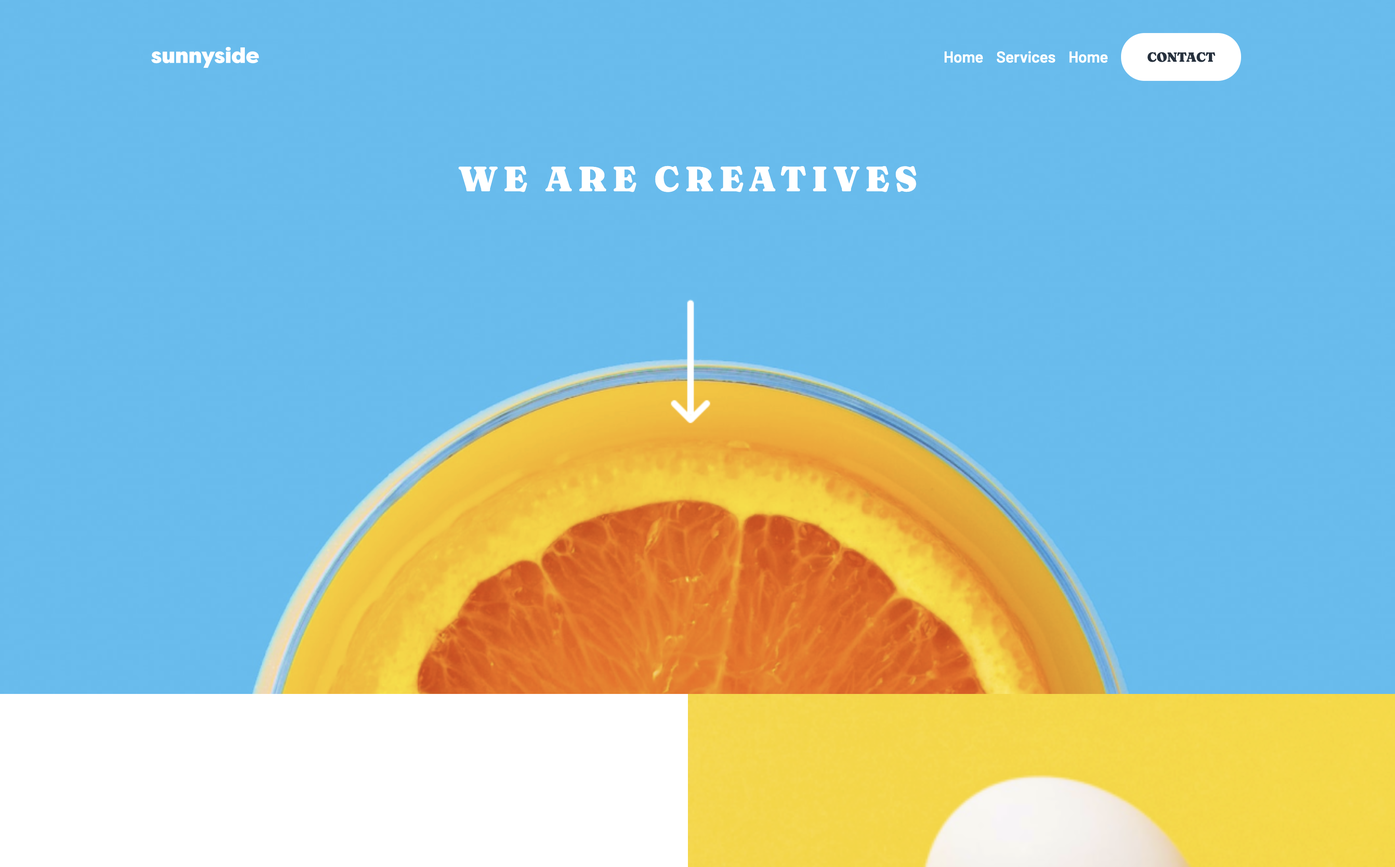
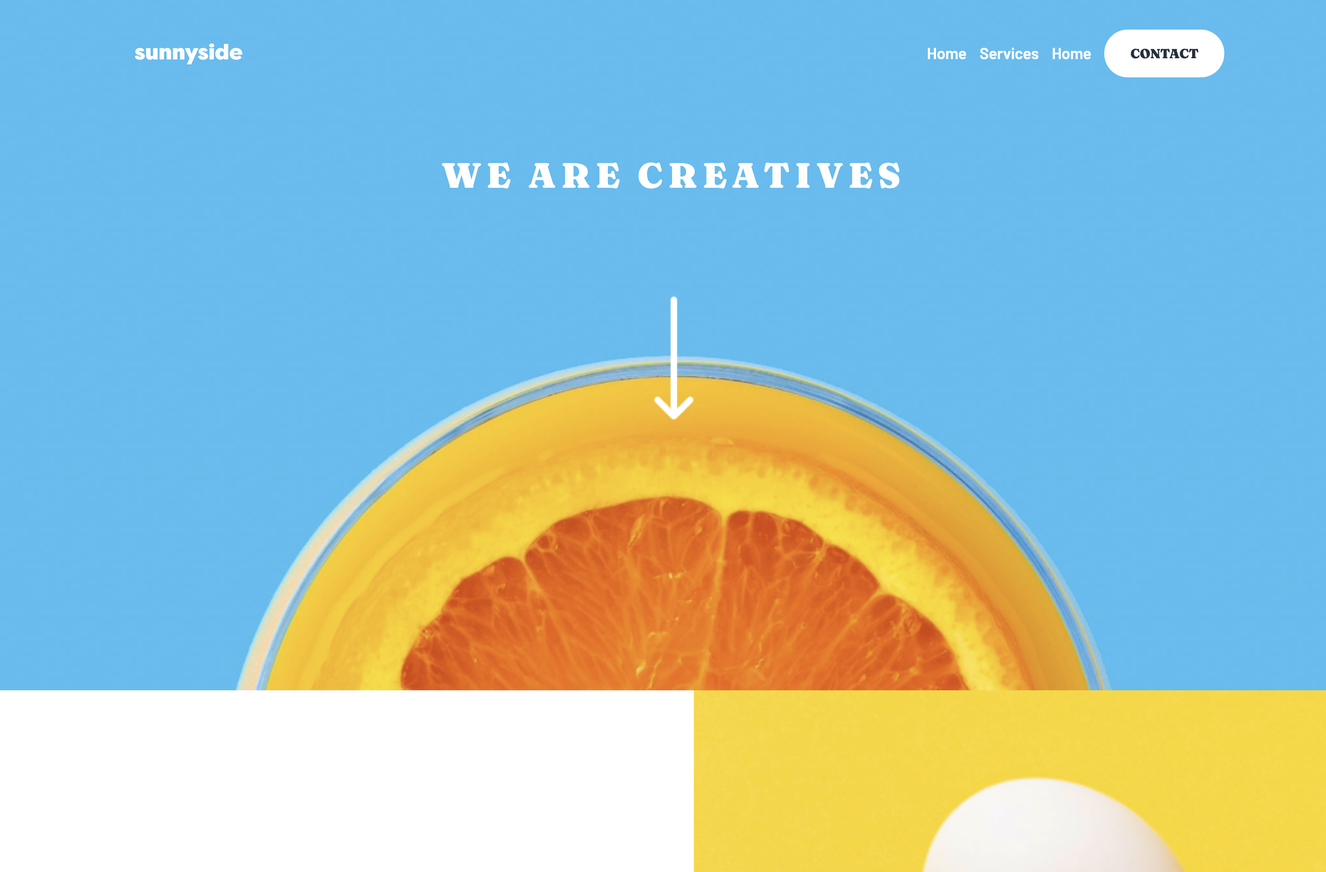
new commit

diff --git a/css/main.min.css b/css/main.min.css
@@ -1,2 +1,2 @@
-html{-webkit-box-sizing:border-box;box-sizing:border-box;height:100%;scroll-behavior:smooth}*,*::before,*::after{-webkit-box-sizing:inherit;box-sizing:inherit}h1,h2,h3,h4,h5,h6,p{margin:0;padding:0}ul{padding:0}body{width:100%;display:-webkit-box;display:-ms-flexbox;display:flex;-webkit-box-orient:vertical;-webkit-box-direction:normal;-ms-flex-direction:column;flex-direction:column;height:100%;padding:0;margin:0;overflow-x:hidden;font-family:'Poppins', Arial, sans-serif}img{max-width:100%;height:auto}main{-webkit-box-flex:1;-ms-flex-positive:1;flex-grow:1}::-webkit-scrollbar{width:6px}::-webkit-scrollbar-track{background:#000}::-webkit-scrollbar-thumb{background:#19647E}::-webkit-scrollbar-thumb:hover{background:#555}.visually-hidden{position:absolute;width:1px;height:1px;margin:-1px;border:0;padding:0;clip:rect(0 0 0 0);overflow:hidden}.container{width:100%;max-width:1200px;padding:0 40px;margin:0 auto}.scroll-up-btn{position:fixed;height:45px;width:42px;background-color:#05B2DC;right:30px;bottom:10px;text-align:center;line-height:45px;color:#13293D;z-index:9999;font-size:30px;border-radius:6px;border-bottom-width:2px;cursor:pointer;opacity:0;pointer-events:none;-webkit-transition:all 0.3s ease;transition:all 0.3s ease}.scroll-up-btn.show{bottom:30px;opacity:1;pointer-events:auto}.scroll-up-btn:hover{-webkit-filter:brightness(90%);filter:brightness(90%)}.navbar{position:fixed;width:100%;z-index:999;padding:30px 0;-webkit-transition:all 0.3s ease;transition:all 0.3s ease}.navbar-inner{display:-webkit-box;display:-ms-flexbox;display:flex;-webkit-box-align:center;-ms-flex-align:center;align-items:center;-webkit-box-pack:justify;-ms-flex-pack:justify;justify-content:space-between}.navbar.sticky{padding:15px 0;background-color:#19647E;-webkit-box-shadow:rgba(0,0,0,0.1) 0px 10px 15px -3px,rgba(0,0,0,0.05) 0px 4px 6px -2px;box-shadow:rgba(0,0,0,0.1) 0px 10px 15px -3px,rgba(0,0,0,0.05) 0px 4px 6px -2px}.navbar-menu{display:-webkit-box;display:-ms-flexbox;display:flex;list-style-type:none}.navbar-menu__item{margin-right:25px}.navbar-menu__item:last-child{margin-right:0}.navbar-menu__link{text-decoration:none;color:#fff;font-weight:600;-webkit-transition:color 0.4s ease;transition:color 0.4s ease}.navbar-menu__link:hover{color:#3282B8}.hero{display:-webkit-box;display:-ms-flexbox;display:flex;height:100vh;width:100%;min-height:100vh;color:#fff;background-image:url(/img/background-img-2.svg);background-repeat:no-repeat;background-size:cover;background-attachment:fixed}.hero-inner{margin:auto;display:-webkit-box;display:-ms-flexbox;display:flex;-webkit-box-align:center;-ms-flex-align:center;align-items:center}.hero-inner__desc{font-family:'ubuntu', sans-serif;margin-bottom:10px;font-weight:600;font-size:25px}.hero-inner__name{font-family:'ubuntu', sans-serif;font-size:65px;font-weight:800;margin-bottom:10px}.type{font-family:'ubuntu', sans-serif;margin:0 auto;width:200px;color:#05B2DC}.type::after{content:'|';display:inline;-webkit-animation:blink 0.7s infinite;animation:blink 0.7s infinite}.hero-inner__text{font-family:'ubuntu', Arial;color:#fff;font-size:40px;margin-bottom:25px}.hero-right__list{list-style-type:none;padding:0;margin:0}.hero-right__btns{display:-webkit-box;display:-ms-flexbox;display:flex;-webkit-box-align:center;-ms-flex-align:center;align-items:center;margin-bottom:30px}.hero-right__button{border:none;margin-right:8px;border-radius:50%;cursor:pointer;height:12px;width:12px}.hero-right__button:first-child{background-color:#F05365}.hero-right__button:nth-child(2){background-color:#FCBC2E}.hero-right__button:last-child{background-color:#22C940}.hero-right__button.btn__close:hover{background-image:url(/icon/close-btn.svg);background-size:6px;background-repeat:no-repeat;background-position:center}.hero-right__button.btn__minus:hover{background-image:url(/icon/minus-icon.svg);background-size:6px;background-repeat:no-repeat;background-position:center}.hero-right__button.btn__resize:hover{background-image:url(/icon/full-screeen-icon.svg);background-size:6px;background-repeat:no-repeat;background-position:center}.hero-right__code{padding:15px 25px 25px 15px;border-radius:10px;width:440px;margin-left:auto;background-color:#13293D;-webkit-box-shadow:rgba(0,0,0,0.05) 0px 5px 10px;box-shadow:rgba(0,0,0,0.05) 0px 5px 10px}.hero-right__item pre{overflow-x:hidden;font-size:13px;font-weight:300;color:#fff;letter-spacing:0.04px}.hero-right__item b{font-size:14px;font-weight:900}.typed-cursor{opacity:0;display:none}@keyframes blink{0%{opacity:1}50%{opacity:0}100%{opacity:1}}@-webkit-keyframes blink{0%{opacity:1}50%{opacity:0}100%{opacity:1}}.about{background-color:#13293D;color:#fff;width:100%;padding:80px 0 150px 0;display:block}.about__wrapper{display:-webkit-box;display:-ms-flexbox;display:flex;-webkit-box-align:center;-ms-flex-align:center;align-items:center;-webkit-box-pack:justify;-ms-flex-pack:justify;justify-content:space-between}.about__title{text-align:center;margin-bottom:50px;color:#fff;letter-spacing:2px;font-size:50px;font-weight:800;display:-webkit-box;display:-ms-flexbox;display:flex;-webkit-box-align:center;-ms-flex-align:center;align-items:center;-webkit-box-pack:center;-ms-flex-pack:center;justify-content:center}.about__title::before{content:'';width:50px;height:3px;background-color:#fff;margin-right:15px}.about__title::after{content:'';width:50px;height:3px;background-color:#fff;margin-left:15px}.about-details__heading{font-size:30px;font-weight:600}.type__second{color:#05B2DC}.about__link{text-decoration:none;color:#fff;background-color:#05B2DC;padding:10px;border-radius:10px;display:inline-block}.about__wrapper-text{width:700px;margin-bottom:25px}.service{padding:140px 0 100px;background-image:url(/img/background-img-1.svg);background-repeat:no-repeat;background-size:cover;background-attachment:fixed;color:#fff;width:100%}.service__title{font-size:35px;font-weight:600;margin-bottom:50px;color:#fff;letter-spacing:2px;font-size:50px;font-weight:800;display:-webkit-box;display:-ms-flexbox;display:flex;-webkit-box-align:center;-ms-flex-align:center;align-items:center;-webkit-box-pack:center;-ms-flex-pack:center;justify-content:center}.service__title::before{content:'';width:50px;height:3px;background-color:#fff;margin-right:15px}.service__title::after{content:'';width:50px;height:3px;background-color:#fff;margin-left:15px}.service__list{list-style-type:none;display:-webkit-box;display:-ms-flexbox;display:flex;-webkit-box-align:center;-ms-flex-align:center;align-items:center;-webkit-box-pack:justify;-ms-flex-pack:justify;justify-content:space-between}.service-list__item{cursor:pointer;padding:50px 35px;text-align:center;border-radius:10px;width:calc(33% - 10px);background-color:#13293D;-webkit-transition:background-color 0.3s ease;transition:background-color 0.3s ease;-webkit-box-shadow:rgba(0,0,0,0.1) 0px 20px 25px -5px,rgba(0,0,0,0.04) 0px 10px 10px -5px;box-shadow:rgba(0,0,0,0.1) 0px 20px 25px -5px,rgba(0,0,0,0.04) 0px 10px 10px -5px}.service-list__item:hover{background-color:#19647E}.service-list__item:hover .service-list__item-inner{-webkit-transform:scale(1.05);transform:scale(1.05)}.service-list__item:hover .icon{color:#fff}.service-list__item-inner{-webkit-transition:all 0.3s ease;transition:all 0.3s ease}.service-list__title{font-weight:600;font-size:25px;margin-bottom:15px}.icon{font-size:50px;color:#05B2DC;margin-bottom:20px;-webkit-transition:color 0.3s ease;transition:color 0.3s ease}.skills{background-color:#13293D;padding:80px 0 150px 0;position:relative}.skills__list{list-style-type:none;display:-webkit-box;display:-ms-flexbox;display:flex;-webkit-box-align:center;-ms-flex-align:center;align-items:center;-webkit-box-pack:justify;-ms-flex-pack:justify;justify-content:space-between}.skills__title{color:#fff;font-weight:800;font-size:50px;margin-bottom:100px;display:-webkit-box;display:-ms-flexbox;display:flex;-webkit-box-align:center;-ms-flex-align:center;align-items:center;-webkit-box-pack:center;-ms-flex-pack:center;justify-content:center;letter-spacing:2px}.skills__title::before{content:'';width:50px;height:3px;background-color:#fff;margin-right:15px}.skills__title::after{content:'';width:50px;height:3px;background-color:#fff;margin-left:15px}.contact{padding:80px 0 150px 0;background-color:#13293D;width:100%;color:#fff}.contact__title{margin-bottom:80px;letter-spacing:2px;font-size:50px;font-weight:800;display:-webkit-box;display:-ms-flexbox;display:flex;-webkit-box-align:center;-ms-flex-align:center;align-items:center;-webkit-box-pack:center;-ms-flex-pack:center;justify-content:center}.contact__title::before{content:'';width:50px;height:3px;background-color:#fff;margin-right:15px}.contact__title::after{content:'';width:50px;height:3px;background-color:#fff;margin-left:15px}.languages__list{position:absolute;top:0;width:100%;list-style:none;width:100%}.language__text{color:#05B2DC;position:absolute;opacity:0.2}.language__text--sass{font-size:28px;top:0;left:40px}.language__text--figma{top:30%;left:35%;font-size:18px}.language__text--bem{top:110px;left:20%;font-size:12px}.language__text--html{top:30px;left:auto;right:30px;font-size:23px}.language__text--python{top:370px;left:auto;right:90px;font-size:18px}.language__text--css{top:250px;left:40px;font-size:14px}.language__text--cplus{top:400px;left:70%;font-size:21px}.language__text--es{top:400px;left:160px;font-size:20px}.language__text--sqlite{bottom:-500px;left:400px;font-size:15px}.language__text--jquery{top:80px;left:75%;font-size:18px}.language__text--res{top:470px;left:880px;font-size:13px}.projects{background-image:url(/img/bgi-light.svg);background-repeat:no-repeat;background-attachment:fixed;background-size:cover;padding:100px 30px 120px 30px}.projects__title{font-size:35px;font-weight:600;margin-bottom:80px;color:#fff;letter-spacing:2px;font-size:50px;font-weight:800;display:-webkit-box;display:-ms-flexbox;display:flex;-webkit-box-align:center;-ms-flex-align:center;align-items:center;-webkit-box-pack:center;-ms-flex-pack:center;justify-content:center}.projects__title::before{content:'';width:50px;height:3px;background-color:#fff;margin-right:15px}.projects__title::after{content:'';width:50px;height:3px;background-color:#fff;margin-left:15px}.projects__list{list-style-type:none;display:-webkit-box;display:-ms-flexbox;display:flex;-ms-flex-wrap:wrap;flex-wrap:wrap;-webkit-box-align:center;-ms-flex-align:center;align-items:center;-webkit-box-pack:justify;-ms-flex-pack:justify;justify-content:space-between;margin-top:-18px;margin-bottom:-18px}.projects__name{color:#05B2DC;text-decoration:underline}.projects__img{margin-bottom:10px;width:100%;min-height:380px;-o-object-fit:cover;object-fit:cover;border-radius:10px;opacity:0.6}.projects-list__item{text-decoration:none;margin-top:18px;margin-bottom:18px;width:calc(33% - 15px);padding:10px 8px;border-radius:10px;background-color:#19647E;text-align:center}.hero-socials__list{list-style-type:none;display:-webkit-box;display:-ms-flexbox;display:flex;-webkit-box-align:center;-ms-flex-align:center;align-items:center}.hero-socials__item{margin-right:15px}.footer{background-color:#111;padding:10px 0}.footer__text{color:#fff;text-align:center;display:block;font-size:12px;font-weight:100}
+html{-webkit-box-sizing:border-box;box-sizing:border-box;height:100%;scroll-behavior:smooth}*,*::before,*::after{-webkit-box-sizing:inherit;box-sizing:inherit}h1,h2,h3,h4,h5,h6,p{margin:0;padding:0}ul{padding:0}body{width:100%;display:-webkit-box;display:-ms-flexbox;display:flex;-webkit-box-orient:vertical;-webkit-box-direction:normal;-ms-flex-direction:column;flex-direction:column;height:100%;padding:0;margin:0;overflow-x:hidden;font-family:'Poppins', Arial, sans-serif}img{max-width:100%;height:auto}main{-webkit-box-flex:1;-ms-flex-positive:1;flex-grow:1}::-webkit-scrollbar{width:6px}::-webkit-scrollbar-track{background:#000}::-webkit-scrollbar-thumb{background:#19647E}::-webkit-scrollbar-thumb:hover{background:#555}.visually-hidden{position:absolute;width:1px;height:1px;margin:-1px;border:0;padding:0;clip:rect(0 0 0 0);overflow:hidden}.container{width:100%;max-width:1200px;padding:0 40px;margin:0 auto}.scroll-up-btn{position:fixed;height:45px;width:42px;background-color:#05B2DC;right:30px;bottom:10px;text-align:center;line-height:45px;color:#13293D;z-index:9999;font-size:30px;border-radius:6px;border-bottom-width:2px;cursor:pointer;opacity:0;pointer-events:none;-webkit-transition:all 0.3s ease;transition:all 0.3s ease}.scroll-up-btn.show{bottom:30px;opacity:1;pointer-events:auto}.scroll-up-btn:hover{-webkit-filter:brightness(90%);filter:brightness(90%)}.navbar{position:fixed;width:100%;z-index:999;padding:15px 0;-webkit-transition:all 0.3s ease;transition:all 0.3s ease}.navbar-inner{display:-webkit-box;display:-ms-flexbox;display:flex;-webkit-box-align:center;-ms-flex-align:center;align-items:center;-webkit-box-pack:justify;-ms-flex-pack:justify;justify-content:space-between}.nav-inner{display:-webkit-box;display:-ms-flexbox;display:flex;-webkit-box-align:center;-ms-flex-align:center;align-items:center}.user-name{color:#fff}.navbar.sticky{padding:0;background-color:#19647E;-webkit-box-shadow:rgba(0,0,0,0.1) 0px 10px 15px -3px,rgba(0,0,0,0.05) 0px 4px 6px -2px;box-shadow:rgba(0,0,0,0.1) 0px 10px 15px -3px,rgba(0,0,0,0.05) 0px 4px 6px -2px}.navbar-menu{display:-webkit-box;display:-ms-flexbox;display:flex;list-style-type:none}.navbar-menu__item{margin-right:25px}.navbar-menu__item:last-child{margin-right:0}.navbar-menu__link{text-decoration:none;color:#fff;font-weight:600;-webkit-transition:color 0.4s ease;transition:color 0.4s ease}.navbar-menu__link:hover{color:#3282B8}.hero{display:-webkit-box;display:-ms-flexbox;display:flex;height:100vh;width:100%;min-height:100vh;color:#fff;background-image:url(/img/background-img-2.svg);background-repeat:no-repeat;background-size:cover;background-attachment:fixed}.hero-inner{margin:auto;display:-webkit-box;display:-ms-flexbox;display:flex;-webkit-box-align:center;-ms-flex-align:center;align-items:center}.hero-inner__desc{font-family:'ubuntu', sans-serif;margin-bottom:10px;font-weight:600;font-size:25px}.hero-inner__name{font-family:'ubuntu', sans-serif;font-size:65px;font-weight:800;margin-bottom:10px}.type{font-family:'ubuntu', sans-serif;margin:0 auto;width:200px;color:#05B2DC}.type::after{content:'|';display:inline;-webkit-animation:blink 0.7s infinite;animation:blink 0.7s infinite}.hero-inner__text{font-family:'ubuntu', Arial;color:#fff;font-size:40px;margin-bottom:25px}.hero-right__list{list-style-type:none;padding:0;margin:0}.hero-right__btns{display:-webkit-box;display:-ms-flexbox;display:flex;-webkit-box-align:center;-ms-flex-align:center;align-items:center;margin-bottom:30px}.hero-right__button{border:none;margin-right:8px;border-radius:50%;cursor:pointer;height:12px;width:12px}.hero-right__button:first-child{background-color:#F05365}.hero-right__button:nth-child(2){background-color:#FCBC2E}.hero-right__button:last-child{background-color:#22C940}.hero-right__button.btn__close:hover{background-image:url(/icon/close-btn.svg);background-size:6px;background-repeat:no-repeat;background-position:center}.hero-right__button.btn__minus:hover{background-image:url(/icon/minus-icon.svg);background-size:6px;background-repeat:no-repeat;background-position:center}.hero-right__button.btn__resize:hover{background-image:url(/icon/full-screeen-icon.svg);background-size:6px;background-repeat:no-repeat;background-position:center}.hero-right__code{padding:15px 25px 25px 15px;border-radius:10px;width:440px;margin-left:auto;background-color:#13293D;-webkit-box-shadow:rgba(0,0,0,0.05) 0px 5px 10px;box-shadow:rgba(0,0,0,0.05) 0px 5px 10px}.hero-right__item pre{overflow-x:hidden;font-size:13px;font-weight:300;color:#fff;letter-spacing:0.04px}.hero-right__item b{font-size:14px;font-weight:900}.typed-cursor{opacity:0;display:none}@keyframes blink{0%{opacity:1}50%{opacity:0}100%{opacity:1}}@-webkit-keyframes blink{0%{opacity:1}50%{opacity:0}100%{opacity:1}}.about{background-color:#13293D;color:#fff;width:100%;padding:80px 0 150px 0;display:block}.about__wrapper{display:-webkit-box;display:-ms-flexbox;display:flex;-webkit-box-align:center;-ms-flex-align:center;align-items:center;-webkit-box-pack:justify;-ms-flex-pack:justify;justify-content:space-between}.about__title{text-align:center;margin-bottom:50px;color:#fff;letter-spacing:2px;font-size:50px;font-weight:800;display:-webkit-box;display:-ms-flexbox;display:flex;-webkit-box-align:center;-ms-flex-align:center;align-items:center;-webkit-box-pack:center;-ms-flex-pack:center;justify-content:center}.about__title::before{content:'';width:50px;height:3px;background-color:#fff;margin-right:15px}.about__title::after{content:'';width:50px;height:3px;background-color:#fff;margin-left:15px}.about-details__heading{font-size:30px;font-weight:600}.type__second{color:#05B2DC}.about__link{text-decoration:none;color:#fff;background-color:#05B2DC;padding:10px;border-radius:10px;display:inline-block}.about__wrapper-text{width:700px;margin-bottom:25px}.service{padding:140px 0 100px;background-image:url(/img/background-img-1.svg);background-repeat:no-repeat;background-size:cover;background-attachment:fixed;color:#fff;width:100%}.service__title{font-size:35px;font-weight:600;margin-bottom:50px;color:#fff;letter-spacing:2px;font-size:50px;font-weight:800;display:-webkit-box;display:-ms-flexbox;display:flex;-webkit-box-align:center;-ms-flex-align:center;align-items:center;-webkit-box-pack:center;-ms-flex-pack:center;justify-content:center}.service__title::before{content:'';width:50px;height:3px;background-color:#fff;margin-right:15px}.service__title::after{content:'';width:50px;height:3px;background-color:#fff;margin-left:15px}.service__list{list-style-type:none;display:-webkit-box;display:-ms-flexbox;display:flex;-webkit-box-align:center;-ms-flex-align:center;align-items:center;-webkit-box-pack:justify;-ms-flex-pack:justify;justify-content:space-between}.service-list__item{cursor:pointer;padding:50px 35px;text-align:center;border-radius:10px;width:calc(33% - 10px);background-color:#13293D;-webkit-transition:background-color 0.3s ease;transition:background-color 0.3s ease;-webkit-box-shadow:rgba(0,0,0,0.1) 0px 20px 25px -5px,rgba(0,0,0,0.04) 0px 10px 10px -5px;box-shadow:rgba(0,0,0,0.1) 0px 20px 25px -5px,rgba(0,0,0,0.04) 0px 10px 10px -5px}.service-list__item:hover{background-color:#19647E}.service-list__item:hover .service-list__item-inner{-webkit-transform:scale(1.05);transform:scale(1.05)}.service-list__item:hover .icon{color:#fff}.service-list__item-inner{-webkit-transition:all 0.3s ease;transition:all 0.3s ease}.service-list__title{font-weight:600;font-size:25px;margin-bottom:15px}.icon{font-size:50px;color:#05B2DC;margin-bottom:20px;-webkit-transition:color 0.3s ease;transition:color 0.3s ease}.skills{background-color:#13293D;padding:80px 0 150px 0;position:relative}.skills__list{list-style-type:none;display:-webkit-box;display:-ms-flexbox;display:flex;-webkit-box-align:center;-ms-flex-align:center;align-items:center;-webkit-box-pack:justify;-ms-flex-pack:justify;justify-content:space-between}.html{color:#30BCED;-webkit-transition:all 0.6s ease;transition:all 0.6s ease}.html:hover{-webkit-transform:scale(1.1);transform:scale(1.1);color:#D84925}.css{color:#30BCED;-webkit-transition:all 0.5s ease;transition:all 0.5s ease}.css:hover{-webkit-transform:scale(1.1);transform:scale(1.1);color:#1c88c7}.js{color:#30BCED;-webkit-transition:all 0.5s ease;transition:all 0.5s ease}.js:hover{-webkit-transform:scale(1.1);transform:scale(1.1);color:#f0db4f}.react{color:#30BCED;-webkit-transition:all 0.5s ease;transition:all 0.5s ease}.react:hover{-webkit-transform:scale(1.1);transform:scale(1.1);color:#61dafb}.bootstrap{color:#30BCED;-webkit-transition:all 0.5s ease;transition:all 0.5s ease}.bootstrap:hover{-webkit-transform:scale(1.1);transform:scale(1.1);color:#563D7C}.skills__title{color:#fff;font-weight:800;font-size:50px;margin-bottom:100px;display:-webkit-box;display:-ms-flexbox;display:flex;-webkit-box-align:center;-ms-flex-align:center;align-items:center;-webkit-box-pack:center;-ms-flex-pack:center;justify-content:center;letter-spacing:2px}.skills__title::before{content:'';width:50px;height:3px;background-color:#fff;margin-right:15px}.skills__title::after{content:'';width:50px;height:3px;background-color:#fff;margin-left:15px}.contact{padding:80px 0 150px 0;background-color:#13293D;width:100%;color:#fff}.contact__title{margin-bottom:80px;letter-spacing:2px;font-size:50px;font-weight:800;display:-webkit-box;display:-ms-flexbox;display:flex;-webkit-box-align:center;-ms-flex-align:center;align-items:center;-webkit-box-pack:center;-ms-flex-pack:center;justify-content:center}.contact__title::before{content:'';width:50px;height:3px;background-color:#fff;margin-right:15px}.contact__title::after{content:'';width:50px;height:3px;background-color:#fff;margin-left:15px}.languages__list{position:absolute;top:0;width:100%;list-style:none;width:100%}.language__text{color:#05B2DC;position:absolute;opacity:0.2}.language__text--sass{font-size:28px;top:0;left:40px}.language__text--figma{top:30%;left:35%;font-size:18px}.language__text--bem{top:110px;left:20%;font-size:12px}.language__text--html{top:30px;left:auto;right:30px;font-size:23px}.language__text--python{top:370px;left:auto;right:90px;font-size:18px}.language__text--css{top:250px;left:40px;font-size:14px}.language__text--cplus{top:400px;left:70%;font-size:21px}.language__text--es{top:400px;left:160px;font-size:20px}.language__text--sqlite{bottom:-500px;left:400px;font-size:15px}.language__text--jquery{top:80px;left:75%;font-size:18px}.language__text--res{top:470px;left:880px;font-size:13px}.projects{background-image:url(/img/bgi-light.svg);background-repeat:no-repeat;background-attachment:fixed;background-size:cover;padding:100px 30px 120px 30px}.projects__title{font-size:35px;font-weight:600;margin-bottom:80px;color:#fff;letter-spacing:2px;font-size:50px;font-weight:800;display:-webkit-box;display:-ms-flexbox;display:flex;-webkit-box-align:center;-ms-flex-align:center;align-items:center;-webkit-box-pack:center;-ms-flex-pack:center;justify-content:center}.projects__title::before{content:'';width:50px;height:3px;background-color:#fff;margin-right:15px}.projects__title::after{content:'';width:50px;height:3px;background-color:#fff;margin-left:15px}.projects__list{list-style-type:none;display:-webkit-box;display:-ms-flexbox;display:flex;-ms-flex-wrap:wrap;flex-wrap:wrap;-webkit-box-align:center;-ms-flex-align:center;align-items:center;-webkit-box-pack:justify;-ms-flex-pack:justify;justify-content:space-between;margin-top:-18px;margin-bottom:-18px}.projects__name{color:#05B2DC;text-decoration:underline}.projects__img{margin-bottom:10px;width:100%;min-height:380px;-o-object-fit:cover;object-fit:cover;border-radius:10px;opacity:0.9}.projects-list__item{text-decoration:none;margin-top:18px;margin-bottom:18px;width:calc(33% - 15px);padding:10px 8px;border-radius:10px;background-color:#19647E;text-align:center}.hero-socials__list{list-style-type:none;display:-webkit-box;display:-ms-flexbox;display:flex;-webkit-box-align:center;-ms-flex-align:center;align-items:center}.hero-socials__item{margin-right:15px}.footer{background-color:#111;padding:10px 0}.footer__text{color:#fff;text-align:center;display:block;font-size:12px;font-weight:100}
 /*# sourceMappingURL=main.min.css.map */

diff --git a/index.html b/index.html
@@ -6,7 +6,7 @@
   <meta http-equiv="X-UA-Compatible" content="IE=edge">
   <meta name="viewport" content="width=device-width, initial-scale=1.0">
   <title>Portfolio</title>
-  <link rel="icon" href="./icon/logo-convert.svg" type="icon/logo icon">
+  <link rel="icon" href="./icon/my-logo-bold.png" type="icon/logo icon">
   <link rel="stylesheet" href="css/main.min.css">
   <link rel="stylesheet" href="https://cdnjs.cloudflare.com/ajax/libs/font-awesome/5.15.3/css/all.min.css" />
   <link rel="preconnect" href="https://fonts.googleapis.com">
@@ -30,8 +30,11 @@
   <!-- navbar -->
   <nav class="navbar">
     <div class="navbar-inner container">
-      <a href="index.html"><img class="navbar-inner__logo" src="/icon/logo-convert.svg" alt="logo" width="60"
-          height="60"></a>
+      <div class="nav-inner">
+        <a href="index.html">
+          <img src="icon/my-logo-bold.png" alt="" width="60" height="60">
+        </a>
+      </div>
       <ul class="navbar-menu">
         <li class="navbar-menu__item"><a class="navbar-menu__link" href="#">Home</a></li>
         <li class="navbar-menu__item"><a class="navbar-menu__link" href="#">About</a></li>
@@ -153,19 +156,49 @@
         </h2>
         <ul class="skills__list">
           <li class="skills__item">
-            <img class="loogo" src="/icon/html.svg" alt="html logo" width="90" height="60">
+            <svg class="html" fill="currentColor" height="110" width="110" xmlns="http://www.w3.org/2000/svg"
+              viewBox="0 0 124 141.53199999999998">
+              <path d="M10.383 126.894L0 0l124 .255-10.979 126.639-50.553 14.638z" fill="currentColor" />
+              <path d="M62.468 129.277V12.085l51.064.17-9.106 104.851z" fill="currentColor" />
+              <path
+                d="M99.49 41.362l1.446-15.49H22.383l4.34 47.49h54.213L78.81 93.617l-17.362 4.68-17.617-5.106-.936-12.085H27.319l2.128 24.681 32 8.936 32.255-8.936 4.34-48.17H41.107L39.49 41.362z"
+                fill="#fff" /></svg>
           </li>
           <li class="skills__item">
-            <img src="/icon/css.svg" alt="html logo" width="90" height="60">
+            <svg class="css" fill="none" height="110" width="110" xmlns="http://www.w3.org/2000/svg" viewBox="0 0 124 141.53">
+              <path d="M10.383 126.892L0 0l124 .255-10.979 126.637-50.553 14.638z" fill="currentColor" />
+              <path d="M62.468 129.275V12.085l51.064.17-9.106 104.85z" fill="currentColor" />
+              <path
+                d="M100.851 27.064H22.298l2.128 15.318h37.276l-36.68 15.745 2.127 14.808h54.043l-1.958 20.68-18.298 3.575-16.595-4.255-1.277-11.745H27.83l2.042 24.426 32.681 9.106 31.32-9.957 4-47.745H64.765l36.085-14.978z"
+                fill="#fff" /></svg>
           </li>
           <li class="skills__item">
-            <img src="/icon/js.svg" alt="html logo" width="90" height="60">
+            <svg class="js" xmlns="http://www.w3.org/2000/svg" width="110" height="110" viewBox="0 0 1052 1052">
+              <path fill="currentColor" d="M0 0h1052v1052H0z" />
+              <path
+                d="M965.9 801.1c-7.7-48-39-88.3-131.7-125.9-32.2-14.8-68.1-25.399-78.8-49.8-3.8-14.2-4.3-22.2-1.9-30.8 6.9-27.9 40.2-36.6 66.6-28.6 17 5.7 33.1 18.801 42.8 39.7 45.4-29.399 45.3-29.2 77-49.399-11.6-18-17.8-26.301-25.4-34-27.3-30.5-64.5-46.2-124-45-10.3 1.3-20.699 2.699-31 4-29.699 7.5-58 23.1-74.6 44-49.8 56.5-35.6 155.399 25 196.1 59.7 44.8 147.4 55 158.6 96.9 10.9 51.3-37.699 67.899-86 62-35.6-7.4-55.399-25.5-76.8-58.4-39.399 22.8-39.399 22.8-79.899 46.1 9.6 21 19.699 30.5 35.8 48.7 76.2 77.3 266.899 73.5 301.1-43.5 1.399-4.001 10.6-30.801 3.199-72.101zm-394-317.6h-98.4c0 85-.399 169.4-.399 254.4 0 54.1 2.8 103.7-6 118.9-14.4 29.899-51.7 26.2-68.7 20.399-17.3-8.5-26.1-20.6-36.3-37.699-2.8-4.9-4.9-8.7-5.601-9-26.699 16.3-53.3 32.699-80 49 13.301 27.3 32.9 51 58 66.399 37.5 22.5 87.9 29.4 140.601 17.3 34.3-10 63.899-30.699 79.399-62.199 22.4-41.3 17.6-91.3 17.4-146.6.5-90.2 0-180.4 0-270.9z"
+                fill="#000" /></svg>
           </li>
           <li class="skills__item">
-            <img src="/icon/bootstrap.svg" alt="html logo" width="90" height="60">
+            <svg class="react"viewBox="175.7 78 490.6 436.9" width="110" height="110"
+              xmlns="http://www.w3.org/2000/svg">
+              <g fill="currentColor">
+                <path
+                  d="m666.3 296.5c0-32.5-40.7-63.3-103.1-82.4 14.4-63.6 8-114.2-20.2-130.4-6.5-3.8-14.1-5.6-22.4-5.6v22.3c4.6 0 8.3.9 11.4 2.6 13.6 7.8 19.5 37.5 14.9 75.7-1.1 9.4-2.9 19.3-5.1 29.4-19.6-4.8-41-8.5-63.5-10.9-13.5-18.5-27.5-35.3-41.6-50 32.6-30.3 63.2-46.9 84-46.9v-22.3c-27.5 0-63.5 19.6-99.9 53.6-36.4-33.8-72.4-53.2-99.9-53.2v22.3c20.7 0 51.4 16.5 84 46.6-14 14.7-28 31.4-41.3 49.9-22.6 2.4-44 6.1-63.6 11-2.3-10-4-19.7-5.2-29-4.7-38.2 1.1-67.9 14.6-75.8 3-1.8 6.9-2.6 11.5-2.6v-22.3c-8.4 0-16 1.8-22.6 5.6-28.1 16.2-34.4 66.7-19.9 130.1-62.2 19.2-102.7 49.9-102.7 82.3 0 32.5 40.7 63.3 103.1 82.4-14.4 63.6-8 114.2 20.2 130.4 6.5 3.8 14.1 5.6 22.5 5.6 27.5 0 63.5-19.6 99.9-53.6 36.4 33.8 72.4 53.2 99.9 53.2 8.4 0 16-1.8 22.6-5.6 28.1-16.2 34.4-66.7 19.9-130.1 62-19.1 102.5-49.9 102.5-82.3zm-130.2-66.7c-3.7 12.9-8.3 26.2-13.5 39.5-4.1-8-8.4-16-13.1-24-4.6-8-9.5-15.8-14.4-23.4 14.2 2.1 27.9 4.7 41 7.9zm-45.8 106.5c-7.8 13.5-15.8 26.3-24.1 38.2-14.9 1.3-30 2-45.2 2-15.1 0-30.2-.7-45-1.9-8.3-11.9-16.4-24.6-24.2-38-7.6-13.1-14.5-26.4-20.8-39.8 6.2-13.4 13.2-26.8 20.7-39.9 7.8-13.5 15.8-26.3 24.1-38.2 14.9-1.3 30-2 45.2-2 15.1 0 30.2.7 45 1.9 8.3 11.9 16.4 24.6 24.2 38 7.6 13.1 14.5 26.4 20.8 39.8-6.3 13.4-13.2 26.8-20.7 39.9zm32.3-13c5.4 13.4 10 26.8 13.8 39.8-13.1 3.2-26.9 5.9-41.2 8 4.9-7.7 9.8-15.6 14.4-23.7 4.6-8 8.9-16.1 13-24.1zm-101.4 106.7c-9.3-9.6-18.6-20.3-27.8-32 9 .4 18.2.7 27.5.7 9.4 0 18.7-.2 27.8-.7-9 11.7-18.3 22.4-27.5 32zm-74.4-58.9c-14.2-2.1-27.9-4.7-41-7.9 3.7-12.9 8.3-26.2 13.5-39.5 4.1 8 8.4 16 13.1 24s9.5 15.8 14.4 23.4zm73.9-208.1c9.3 9.6 18.6 20.3 27.8 32-9-.4-18.2-.7-27.5-.7-9.4 0-18.7.2-27.8.7 9-11.7 18.3-22.4 27.5-32zm-74 58.9c-4.9 7.7-9.8 15.6-14.4 23.7-4.6 8-8.9 16-13 24-5.4-13.4-10-26.8-13.8-39.8 13.1-3.1 26.9-5.8 41.2-7.9zm-90.5 125.2c-35.4-15.1-58.3-34.9-58.3-50.6s22.9-35.6 58.3-50.6c8.6-3.7 18-7 27.7-10.1 5.7 19.6 13.2 40 22.5 60.9-9.2 20.8-16.6 41.1-22.2 60.6-9.9-3.1-19.3-6.5-28-10.2zm53.8 142.9c-13.6-7.8-19.5-37.5-14.9-75.7 1.1-9.4 2.9-19.3 5.1-29.4 19.6 4.8 41 8.5 63.5 10.9 13.5 18.5 27.5 35.3 41.6 50-32.6 30.3-63.2 46.9-84 46.9-4.5-.1-8.3-1-11.3-2.7zm237.2-76.2c4.7 38.2-1.1 67.9-14.6 75.8-3 1.8-6.9 2.6-11.5 2.6-20.7 0-51.4-16.5-84-46.6 14-14.7 28-31.4 41.3-49.9 22.6-2.4 44-6.1 63.6-11 2.3 10.1 4.1 19.8 5.2 29.1zm38.5-66.7c-8.6 3.7-18 7-27.7 10.1-5.7-19.6-13.2-40-22.5-60.9 9.2-20.8 16.6-41.1 22.2-60.6 9.9 3.1 19.3 6.5 28.1 10.2 35.4 15.1 58.3 34.9 58.3 50.6-.1 15.7-23 35.6-58.4 50.6z" />
+                <circle cx="420.9" cy="296.5" r="45.7" />
+              </g>
+            </svg>
           </li>
+
           <li class="skills__item">
-            <img src="/icon/react.svg" alt="html logo" width="90" height="60">
+            <svg class="bootstrap" width="110" height="110" viewBox="0 0 256 256" xmlns="http://www.w3.org/2000/svg"
+              preserveAspectRatio="xMinYMin meet">
+              <path
+                d="M0 222.991C0 241.223 14.779 256 33.009 256H222.99C241.223 256 256 241.221 256 222.991V33.01C256 14.777 241.221 0 222.991 0H33.01C14.777 0 0 14.779 0 33.009V222.99z"
+                fill="currentColor" />
+              <path
+                d="M106.158 113.238V76.985h31.911c3.04 0 5.97.253 8.792.76 2.822.506 5.319 1.41 7.49 2.713 2.17 1.303 3.907 3.112 5.21 5.427 1.302 2.316 1.954 5.283 1.954 8.9 0 6.513-1.954 11.217-5.862 14.111-3.907 2.895-8.9 4.342-14.979 4.342h-34.516zM72.075 50.5v155h75.112c6.947 0 13.713-.868 20.298-2.605 6.585-1.737 12.446-4.414 17.584-8.032 5.137-3.618 9.226-8.286 12.265-14.002 3.04-5.717 4.559-12.483 4.559-20.298 0-9.697-2.352-17.982-7.055-24.856-4.704-6.875-11.832-11.687-21.384-14.437 6.947-3.328 12.194-7.598 15.74-12.808 3.545-5.21 5.318-11.722 5.318-19.538 0-7.236-1.194-13.314-3.582-18.235-2.388-4.92-5.753-8.864-10.095-11.831-4.341-2.967-9.551-5.102-15.63-6.404-6.078-1.303-12.808-1.954-20.189-1.954H72.075zm34.083 128.515v-42.549h37.121c7.381 0 13.315 1.7 17.802 5.102 4.486 3.401 6.73 9.081 6.73 17.041 0 4.053-.688 7.381-2.063 9.986-1.375 2.605-3.22 4.668-5.536 6.187-2.315 1.52-4.993 2.605-8.032 3.257-3.04.65-6.223.976-9.552.976h-36.47z"
+                fill="#FFF" /></svg>
           </li>
         </ul>
       </div>
@@ -216,8 +249,7 @@
         </li>
         <li class="projects-list__item">
           <a href="https://online-books-abdulloh.netlify.app" target="_blank">
-            <img class="projects__img" src="img/book-shop.png" alt="telegram bootstrap desktop" width="390"
-              height="250">
+            <img class="projects__img" src="img/bookshop.png" alt="telegram bootstrap desktop" width="390" height="250">
             <h3 class="projects__name">Book shop</h3>
           </a>
         </li>
@@ -236,7 +268,7 @@
           </a>
         </li>
         <li class="projects-list__item">
-          <a href="https://ecommerce-abdulloh.netlify.app" target="_blank">
+          <a href="https://ecommerce-main-abdulloh.netlify.app" target="_blank">
             <img class="projects__img" src="img/ecommerce.png" alt="telegram bootstrap desktop" width="390"
               height="250">
             <h3 class="projects__name">Ecommerce</h3>
@@ -255,17 +287,6 @@
       <div class="contact__inner container">
         <h1 class="contact__title">Contact</h1>
 
-        <p>Lorem ipsum dolor sit amet consectetur adipisicing elit. Repellat in sit provident autem tempore natus sint
-          eum sunt sapiente esse rem ab vitae dolorum voluptatem voluptate alias iste et quas exercitationem, harum
-          nihil impedit aliquid at molestiae. Natus placeat ipsam voluptates ad quam, veniam architecto, molestiae rem
-          distinctio amet corrupti at provident culpa, hic dolorum. Tempora nihil, velit non facilis maxime ab doloribus
-          distinctio illo cupiditate, rem laboriosam repellendus perspiciatis. Soluta inventore reprehenderit vel
-          dolore, eum numquam asperiores cumque cum culpa eveniet distinctio architecto amet unde atque praesentium
-          quasi repellat iure illo magni doloremque. Delectus, reiciendis perspiciatis in sit sunt repellat eligendi
-          ullam, autem nostrum reprehenderit rerum voluptatem aliquam harum ducimus voluptate ex possimus. Quae,
-          officiis nobis dolore, nam, soluta cumque consequuntur facere tempore temporibus consectetur labore placeat
-          molestias odio sunt iure. Laudantium voluptate fuga adipisci error ullam fugit dicta necessitatibus iste
-          officiis voluptatibus modi consectetur, minus explicabo soluta suscipit?</p>
       </div>
     </section>
   </main>
@@ -273,8 +294,6 @@
   <footer class="footer">
     <span class="footer__text">Copyright © 2021 by Abdulloh</span>
   </footer>
-
-
   <script src="./js/main.js"></script>
 </body>
 

diff --git a/css/main.css b/css/main.css
@@ -125,7 +125,7 @@ main {
   position: fixed;
   width: 100%;
   z-index: 999;
-  padding: 30px 0;
+  padding: 15px 0;
   -webkit-transition: all 0.3s ease;
   transition: all 0.3s ease;
 }
@@ -142,8 +142,21 @@ main {
           justify-content: space-between;
 }
 
+.nav-inner {
+  display: -webkit-box;
+  display: -ms-flexbox;
+  display: flex;
+  -webkit-box-align: center;
+      -ms-flex-align: center;
+          align-items: center;
+}
+
+.user-name {
+  color: #fff;
+}
+
 .navbar.sticky {
-  padding: 15px 0;
+  padding: 0;
   background-color: #19647E;
   -webkit-box-shadow: rgba(0, 0, 0, 0.1) 0px 10px 15px -3px, rgba(0, 0, 0, 0.05) 0px 4px 6px -2px;
           box-shadow: rgba(0, 0, 0, 0.1) 0px 10px 15px -3px, rgba(0, 0, 0, 0.05) 0px 4px 6px -2px;
@@ -547,6 +560,66 @@ main {
           justify-content: space-between;
 }
 
+.html {
+  color: #30BCED;
+  -webkit-transition: all 0.6s ease;
+  transition: all 0.6s ease;
+}
+
+.html:hover {
+  -webkit-transform: scale(1.1);
+          transform: scale(1.1);
+  color: #D84925;
+}
+
+.css {
+  color: #30BCED;
+  -webkit-transition: all 0.5s ease;
+  transition: all 0.5s ease;
+}
+
+.css:hover {
+  -webkit-transform: scale(1.1);
+          transform: scale(1.1);
+  color: #1c88c7;
+}
+
+.js {
+  color: #30BCED;
+  -webkit-transition: all 0.5s ease;
+  transition: all 0.5s ease;
+}
+
+.js:hover {
+  -webkit-transform: scale(1.1);
+          transform: scale(1.1);
+  color: #f0db4f;
+}
+
+.react {
+  color: #30BCED;
+  -webkit-transition: all 0.5s ease;
+  transition: all 0.5s ease;
+}
+
+.react:hover {
+  -webkit-transform: scale(1.1);
+          transform: scale(1.1);
+  color: #61dafb;
+}
+
+.bootstrap {
+  color: #30BCED;
+  -webkit-transition: all 0.5s ease;
+  transition: all 0.5s ease;
+}
+
+.bootstrap:hover {
+  -webkit-transform: scale(1.1);
+          transform: scale(1.1);
+  color: #563D7C;
+}
+
 .skills__title {
   color: #fff;
   font-weight: 800;
@@ -773,7 +846,7 @@ main {
   -o-object-fit: cover;
      object-fit: cover;
   border-radius: 10px;
-  opacity: 0.6;
+  opacity: 0.9;
 }
 
 .projects-list__item {

diff --git a/scss/blocks/_skills.scss b/scss/blocks/_skills.scss
@@ -11,6 +11,56 @@
   justify-content: space-between;
 }
 
+.html{
+  color: #30BCED;
+  transition: all 0.6s ease;
+
+  &:hover{
+    transform: scale(1.1);
+    color: #D84925;
+  }
+}
+
+.css{
+  color: #30BCED;
+  transition: all 0.5s ease;
+
+  &:hover{
+    transform: scale(1.1);
+    color: #1c88c7;
+  }
+}
+
+.js{
+  color: #30BCED;
+  transition: all 0.5s ease;
+
+  &:hover{
+    transform: scale(1.1);
+    color: #f0db4f;
+  }
+}
+
+.react{
+  color: #30BCED;
+  transition: all 0.5s ease;
+
+  &:hover{
+    transform: scale(1.1);
+    color: #61dafb;
+  }
+}
+
+.bootstrap{
+  color: #30BCED;
+  transition: all 0.5s ease;
+
+  &:hover{
+    transform: scale(1.1);
+    color: #563D7C;
+  }
+}
+
 .skills__title {
   color: #fff;
   font-weight: 800;

diff --git a/scss/blocks/_navbar.scss b/scss/blocks/_navbar.scss
@@ -2,7 +2,7 @@
   position: fixed;
   width: 100%;
   z-index: 999;
-  padding: 30px 0;
+  padding: 15px 0;
   transition: all 0.3s ease;
 }
 
@@ -12,8 +12,17 @@
   justify-content: space-between;
 }
 
+.nav-inner{
+  display: flex;
+  align-items: center;
+}
+
+.user-name{
+  color: #fff;
+}
+
 .navbar.sticky{
-  padding: 15px 0;
+  padding: 0;
   background-color: #19647E;
   box-shadow: rgba(0, 0, 0, 0.1) 0px 10px 15px -3px, rgba(0, 0, 0, 0.05) 0px 4px 6px -2px;
 }

diff --git a/scss/blocks/_projects.scss b/scss/blocks/_projects.scss
@@ -55,7 +55,7 @@
   min-height: 380px;
   object-fit: cover;
   border-radius: 10px;
-  opacity: 0.6;
+  opacity: 0.9;
 }
 
 .projects-list__item{
